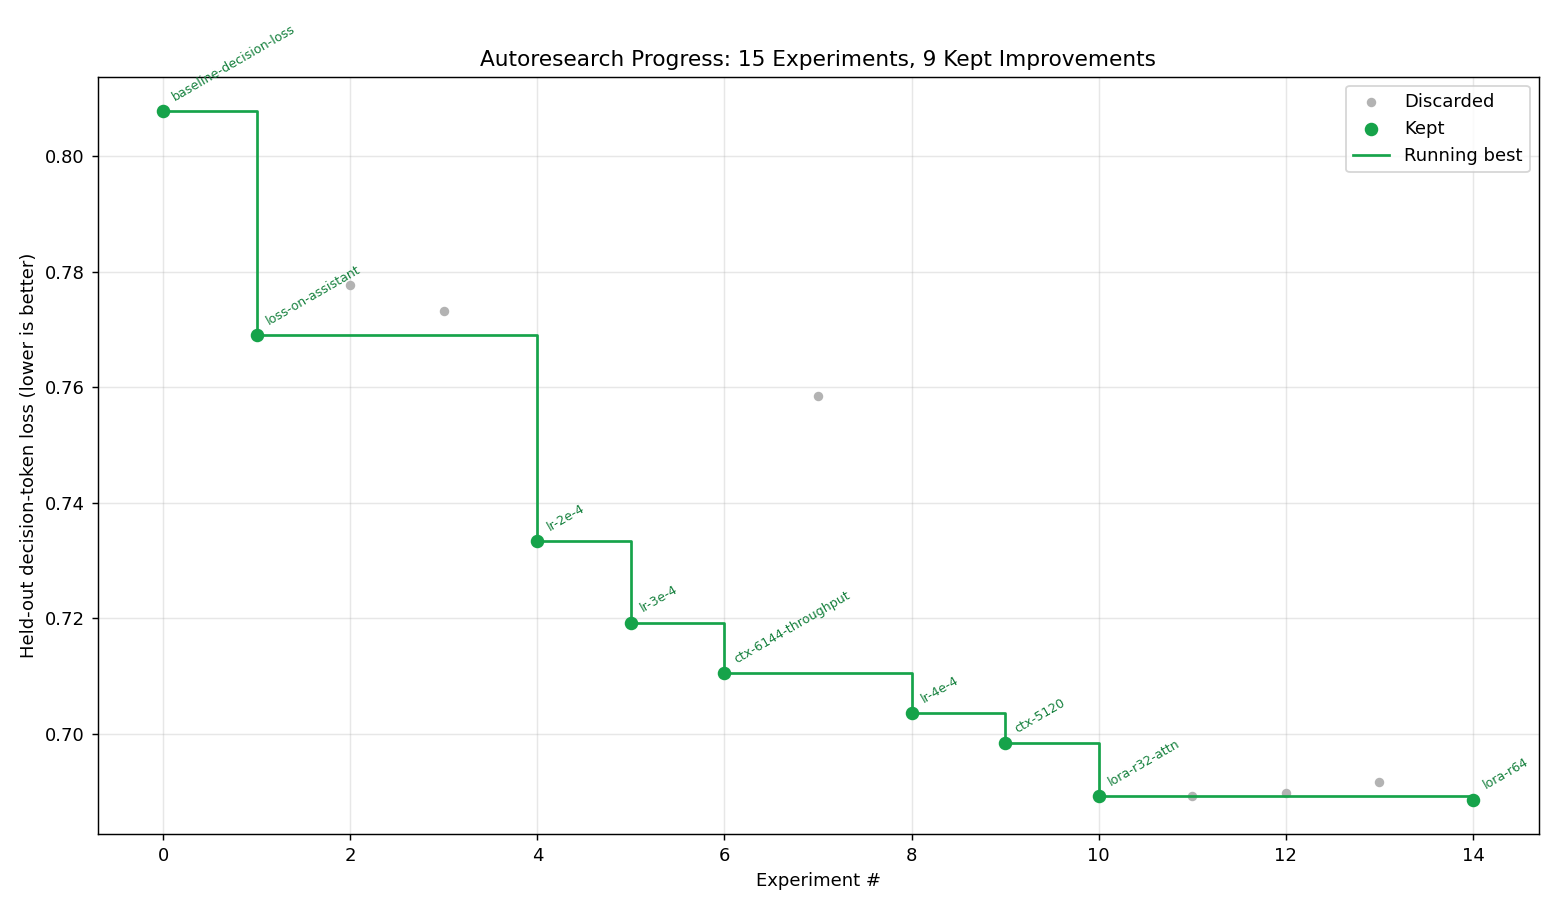
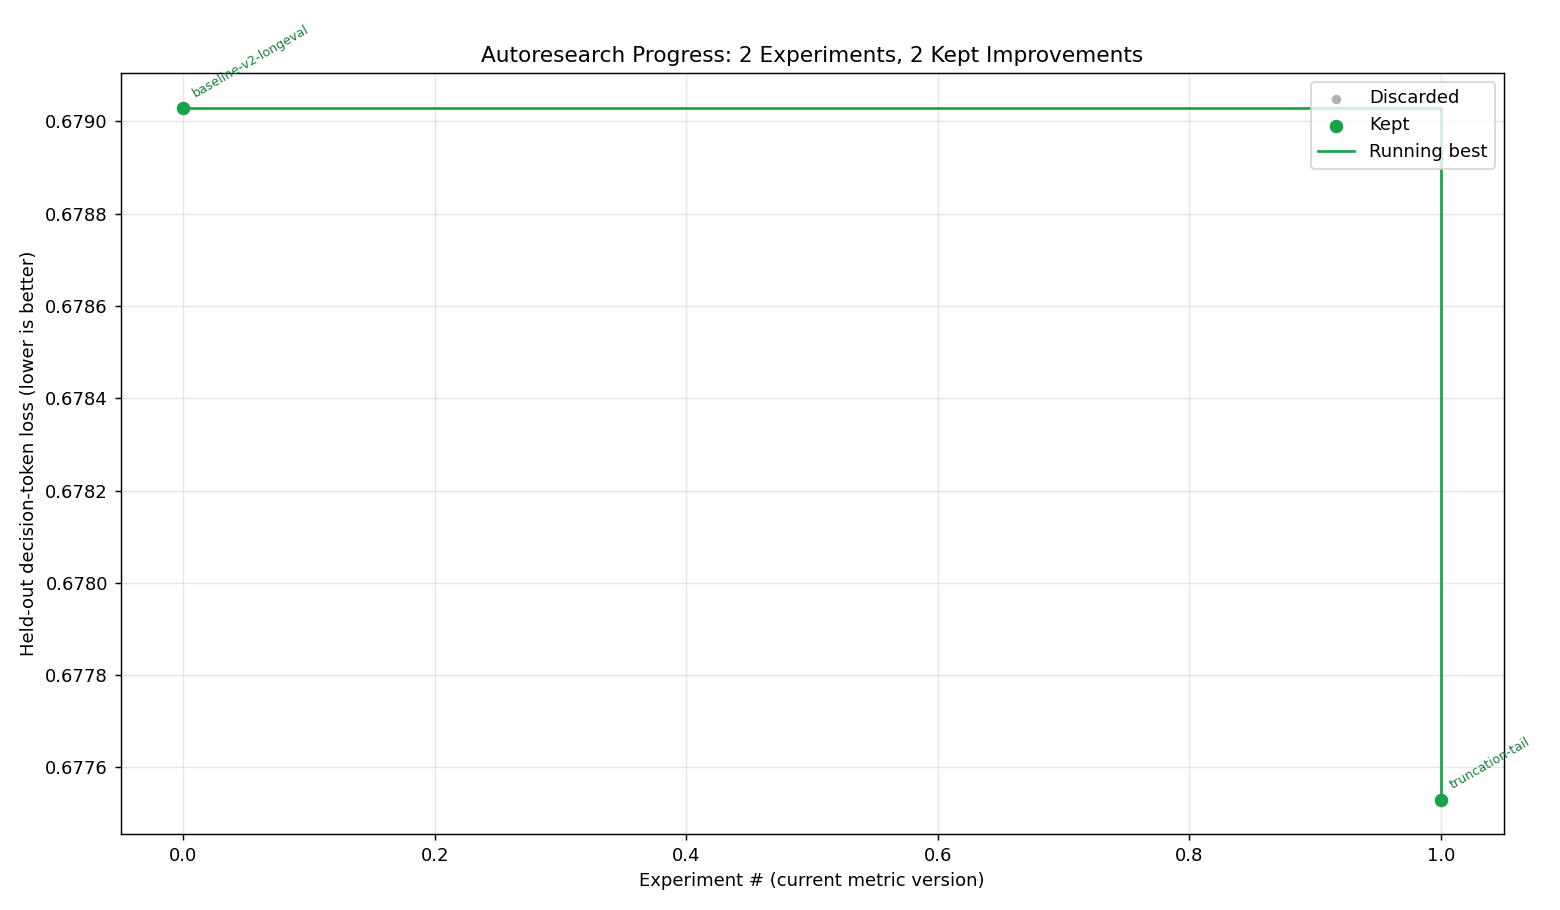
Fix: re-pull v2 ledger/plot after transient rsync failure (0019/0020 now in table)

diff --git a/method.md b/method.md
@@ -1,7 +1,7 @@
 # Current best method
 
-- best experiment: **0018**
-- held-out val loss (lower=better): **0.68717**
+- best experiment: **0020**
+- held-out val loss (lower=better): **0.67753**
 
 ## Config
 ```json
@@ -9,7 +9,7 @@
   "train_file": "data/agentic_experiments/pilot_4090_longhorizon_v1/train.sft.jsonl",
   "val_file": "data/agentic_experiments/pilot_4090_longhorizon_v1/val.sft.jsonl",
   "loss_on": "assistant",
-  "truncation": "right",
+  "truncation": "tail",
   "max_length": 5120,
   "lora_r": 64,
   "lora_alpha": 128,
@@ -32,7 +32,7 @@
   "max_grad_norm": 1.0,
   "neftune_noise_alpha": 5.0,
   "attn_implementation": "sdpa",
-  "train_seconds": 1200,
+  "train_seconds": 1020,
   "max_steps_cap": 100000,
   "seed": 42,
   "eval_limit": 0
@@ -52,3 +52,5 @@
 - `0013` lora-r32-attn: Memory-safe capacity test (0007 OOM'd with MLP): LoRA r16->r32 alpha64, attn-only. -> loss 0.68925
 - `0017` lora-r64: Capacity still helping (r32 gave -0.009); push rank r32->r64, alpha->128. -> loss 0.6886
 - `0018` neftune-5: Method lever: NEFTune embedding-noise regularisation (alpha 5) on the best recipe. -> loss 0.68717
+- `0019` baseline-v2-longeval: Reanchor on decision_loss_v2 (eval scores decision tokens up to 16384, chunked CE). Re-score the current best recipe (assistant+lr4e-4+ctx5120+r64+neftune5) on the long-horizon-faithful metric; train_seconds 1020 to keep total <=30min with the heavier eval. -> loss 0.67903
+- `0020` truncation-tail: Now that eval sees beyond 8192: train on the END of long traces (truncation=tail keeps the trajectory's late decisions). Previously unmeasurable under head@8192 eval. -> loss 0.67753

diff --git a/EXPERIMENTS.md b/EXPERIMENTS.md
@@ -31,5 +31,7 @@ decision-loss curve).
 | 0016 | warmup-5 | Brief warmup (5 steps) to stabilize the now-high LR from step 1. | 0.69172 | decision_loss |  | 90 | 1206.1 |
 | 0017 | lora-r64 | Capacity still helping (r32 gave -0.009); push rank r32->r64, alpha->128. | 0.68860 | decision_loss | ✅ | 90 | 1207.8 |
 | 0018 | neftune-5 | Method lever: NEFTune embedding-noise regularisation (alpha 5) on the best recipe. | 0.68717 | decision_loss | ✅ | 90 | 1207.7 |
+| 0019 | baseline-v2-longeval | Reanchor on decision_loss_v2 (eval scores decision tokens up to 16384, chunked CE). Re-... | 0.67903 | decision_loss_v2 | ✅ | 76 | 1020.9 |
+| 0020 | truncation-tail | Now that eval sees beyond 8192: train on the END of long traces (truncation=tail keeps ... | 0.67753 | decision_loss_v2 | ✅ | 76 | 1020.8 |
 
-_18 experiments logged; 16 on the decision-loss curve, 10 kept improvements._
+_20 experiments logged; 16 on the decision-loss curve, 10 kept improvements._
